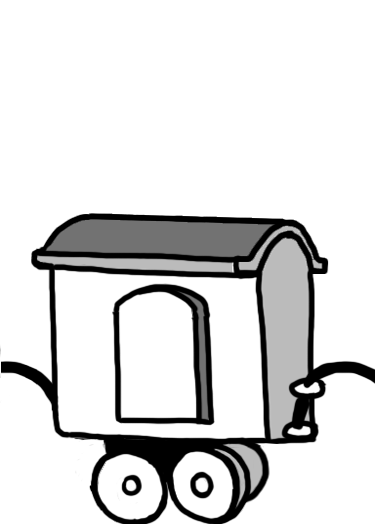
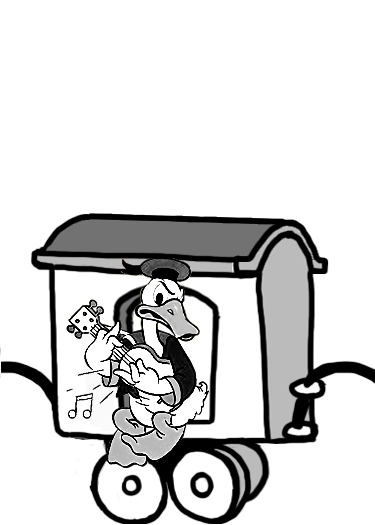
feat: add task for 1-5 levels, change assets image

Changed region(s): [[0.176, 0.4876, 0.5867, 0.9143]]

diff --git a/css-selectors/src/components/task-for-game/tasks.scss b/css-selectors/src/components/task-for-game/tasks.scss
@@ -1,9 +1,9 @@
 .current-task {
   perspective-origin: 50% 100%;
   & > * {
-    width: 190px;
+    width: 192px;
     height: 270px;
-    margin-bottom: 110px;
+    margin-bottom: 120px;
     background-size: contain;
     @media (max-width: 800px) {
       width: 130px;
@@ -13,29 +13,50 @@
   }
 }
 
-.t-shirt,
-.pillow,
-.box, 
-.paper {
+.train,
+.car_1, 
+.car_2,
+.car_3 {
   display: flex;
   justify-content: center;
   align-items: center;
 }
 
-.t-shirt {
-  background-image: url(../../assets/car1.png);
+.goofy,
+.mas,
+.mice {
+  height: 100%;
+  width: 100%;
+  background-size: contain;
 }
 
-.pillow {
+
+.train {
   background-image: url(../../assets/train.gif);
 }
 
-.box {
-  // background-image: url(../../assets/box.png);
+.car_1 {
+  background-image: url(../../assets/car1.png);
 }
 
-.paper {
-  // background-image: url(../../assets/paper.jpg);
+.car_2 {
+  background-image: url(../../assets/car2.png);
+}
+
+.car_3 {
+  background-image: url(../../assets/car3.png);
+}
+
+.goofy {
+  background-image: url(../../assets/goofy.png);
+}
+
+.mice {
+  background-image: url(../../assets/mice.png);
+}
+
+.mas {
+  background-image: url(../../assets/mas.png);
 }
 
 .strobe {

diff --git a/css-selectors/src/components/task-for-game/tasks.ts b/css-selectors/src/components/task-for-game/tasks.ts
@@ -3,6 +3,13 @@ import './tasks.scss';
 import { createLevel01 } from './task-01';
 import { createLevel02 } from './task-02';
 import { createLevel03 } from './task-03';
+import { createLevel04 } from './task-04';
+import { createLevel05 } from './task-05';
+import { createLevel06 } from './task-06';
+import { createLevel07 } from './task-07';
+import { createLevel08 } from './task-08';
+import { createLevel09 } from './task-09';
+import { createLevel10 } from './task-10';
 
 export function createLevel(levelNum: string | null): void {
   // const buttons = document.querySelectorAll(`.task`);
@@ -13,4 +20,11 @@ export function createLevel(levelNum: string | null): void {
   if (levelNum === null || levelNum === '01') createLevel01();
   if (levelNum === '02') createLevel02();
   if (levelNum === '03') createLevel03();
+  if (levelNum === '04') createLevel04();
+  if (levelNum === '05') createLevel05();
+  if (levelNum === '06') createLevel06();
+  if (levelNum === '07') createLevel07();
+  if (levelNum === '08') createLevel08();
+  if (levelNum === '09') createLevel09();
+  if (levelNum === '10') createLevel10();
 }

diff --git a/css-selectors/src/components/task-for-game/task-04.ts b/css-selectors/src/components/task-for-game/task-04.ts
@@ -1,13 +1,17 @@
 import { CreateEltment } from '../classes/Create-element';
 
-export function createLevel02(): void {
-  const elem1 = new CreateEltment('.current-task', 'div', 'car_3');
+export function createLevel04(): void {
+  const elem1 = new CreateEltment('.current-task', 'div', 'car_1');
   const elem2 = new CreateEltment('.current-task', 'div', 'car_2');
   const elem3 = new CreateEltment('.current-task', 'div', 'car_3');
   const elem4 = new CreateEltment('.current-task', 'div', 'train');
+  const nestedElem1 = new CreateEltment('.car_2', 'div', 'goofy');
+  const nestedElem2 = new CreateEltment('.car_3', 'div', 'goofy');
 
   elem1.create();
   elem2.create();
   elem3.create();
   elem4.create();
+  nestedElem1.create();
+  nestedElem2.create();
 }

diff --git a/css-selectors/src/components/task-for-game/task-05.ts b/css-selectors/src/components/task-for-game/task-05.ts
@@ -1,13 +1,17 @@
 import { CreateEltment } from '../classes/Create-element';
 
-export function createLevel02(): void {
+export function createLevel05(): void {
   const elem1 = new CreateEltment('.current-task', 'div', 'car_3');
   const elem2 = new CreateEltment('.current-task', 'div', 'car_2');
-  const elem3 = new CreateEltment('.current-task', 'div', 'car_3');
+  const elem3 = new CreateEltment('.current-task', 'div', 'car_1');
   const elem4 = new CreateEltment('.current-task', 'div', 'train');
+  const nestedElem1 = new CreateEltment('.car_3', 'div', 'mice');
+  const nestedElem2 = new CreateEltment('.car_2', 'div', 'goofy');
 
   elem1.create();
   elem2.create();
   elem3.create();
   elem4.create();
+  nestedElem1.create();
+  nestedElem2.create();
 }

diff --git a/css-selectors/src/components/task-for-game/task-03.ts b/css-selectors/src/components/task-for-game/task-03.ts
@@ -1,11 +1,13 @@
 import { CreateEltment } from '../classes/Create-element';
 
 export function createLevel03(): void {
-  const elem1 = new CreateEltment('.current-task', 'div', 'paper');
-  const elem2 = new CreateEltment('.current-task', 'div', 'pillow');
-  const elem3 = new CreateEltment('.current-task', 'div', 't-shirt');
+  const elem1 = new CreateEltment('.current-task', 'div', 'car_1');
+  const elem2 = new CreateEltment('.current-task', 'div', 'car_2');
+  const elem3 = new CreateEltment('.current-task', 'div', 'car_3');
+  const elem4 = new CreateEltment('.current-task', 'div', 'train');
 
   elem1.create();
   elem2.create();
   elem3.create();
+  elem4.create();
 }

diff --git a/css-selectors/src/components/task-for-game/task-06.ts b/css-selectors/src/components/task-for-game/task-06.ts
@@ -1,6 +1,6 @@
 import { CreateEltment } from '../classes/Create-element';
 
-export function createLevel01(): void {
+export function createLevel06(): void {
   const elem1 = new CreateEltment('.current-task', 'div', 'car_3');
   const elem2 = new CreateEltment('.current-task', 'div', 'car_3');
   const elem3 = new CreateEltment('.current-task', 'div', 'train');

diff --git a/css-selectors/src/components/task-for-game/task-07.ts b/css-selectors/src/components/task-for-game/task-07.ts
@@ -1,6 +1,6 @@
 import { CreateEltment } from '../classes/Create-element';
 
-export function createLevel01(): void {
+export function createLevel07(): void {
   const elem1 = new CreateEltment('.current-task', 'div', 'car_3');
   const elem2 = new CreateEltment('.current-task', 'div', 'car_3');
   const elem3 = new CreateEltment('.current-task', 'div', 'train');

diff --git a/css-selectors/src/components/task-for-game/task-08.ts b/css-selectors/src/components/task-for-game/task-08.ts
@@ -1,6 +1,6 @@
 import { CreateEltment } from '../classes/Create-element';
 
-export function createLevel01(): void {
+export function createLevel08(): void {
   const elem1 = new CreateEltment('.current-task', 'div', 'car_3');
   const elem2 = new CreateEltment('.current-task', 'div', 'car_3');
   const elem3 = new CreateEltment('.current-task', 'div', 'train');

diff --git a/css-selectors/src/components/task-for-game/task-09.ts b/css-selectors/src/components/task-for-game/task-09.ts
@@ -1,6 +1,6 @@
 import { CreateEltment } from '../classes/Create-element';
 
-export function createLevel01(): void {
+export function createLevel09(): void {
   const elem1 = new CreateEltment('.current-task', 'div', 'car_3');
   const elem2 = new CreateEltment('.current-task', 'div', 'car_3');
   const elem3 = new CreateEltment('.current-task', 'div', 'train');

diff --git a/css-selectors/src/components/task-for-game/task-10.ts b/css-selectors/src/components/task-for-game/task-10.ts
@@ -1,6 +1,6 @@
 import { CreateEltment } from '../classes/Create-element';
 
-export function createLevel01(): void {
+export function createLevel10(): void {
   const elem1 = new CreateEltment('.current-task', 'div', 'car_3');
   const elem2 = new CreateEltment('.current-task', 'div', 'car_3');
   const elem3 = new CreateEltment('.current-task', 'div', 'train');
